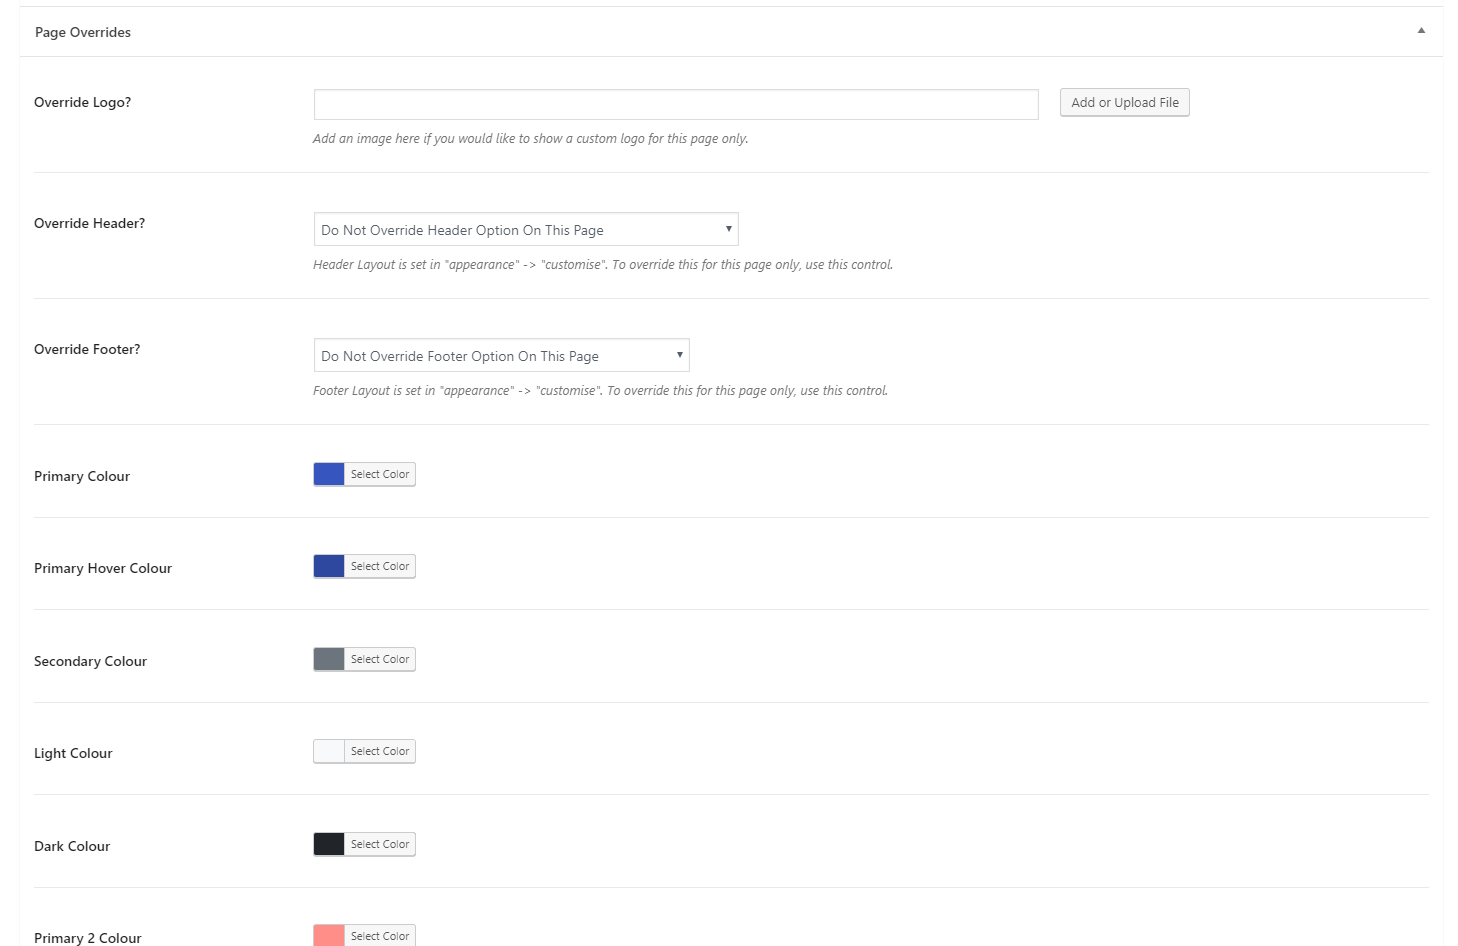
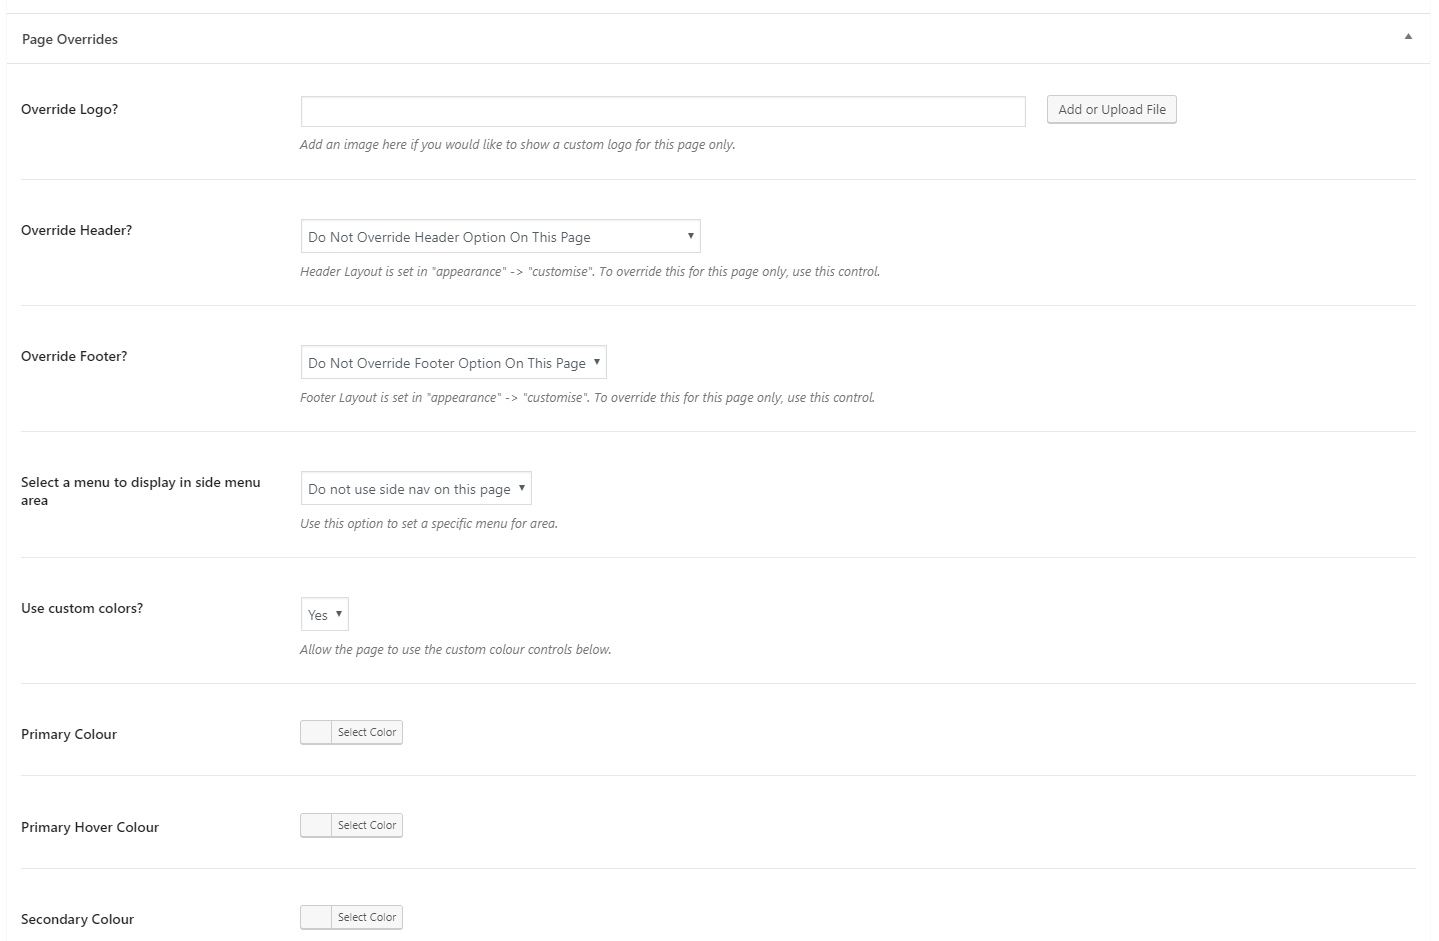
Further Jumpstart Docs

diff --git a/jumpstart-wordpress-theme/index.html b/jumpstart-wordpress-theme/index.html
@@ -271,9 +271,7 @@
             <a href="#PostsOverview">Posts Overview</a>
             <a href="#PortfolioOverview">Portfolio Overview</a>
             <a href="#TeamOverview">Team Overview</a>
-            <a href="#DocumentationOverview">Documentation Overview</a>   
-            <a href="#ClientsOverview">Clients Overview</a>     
-            <a href="#TestimonialOverview">Testimonials Overview</a>            
+            <a href="#DocumentationOverview">Documentation Overview</a>            
             <a href="#ContactForm7">Contact Form 7 Overview</a>
             <a href="#Translating">Translating Your Theme</a>            
             <a href="#Developers">Developing with Jumpstart</a>
@@ -355,23 +353,7 @@
         <br><br>
 
         <h2>Final Step</h2>
-        <p>Ok so you now have the pages and images all imported and ready, you now need to simply setup your homepage/blog and menu. To do this head to Settings > Reading to choose your homepage and posts page, and then head to Appearance > Menus to assign the demo menus.</p>   
-
-        <h4>Important Note</h4>
-        <p>If you have imported the demo data, you will notice the "new" badge displayed in the coworking menu item looks a little different to the demo (see below)</p>
-
-        <img src="images/badge.png">
-        <br><br>
-
-        <p>This is because typically the import process does not account for HTML within menu items - to remedy this you can edit the menu item and replace the text with the following HTML</p>
-
-        <pre>&#x3C;span class=&#x22;badge badge-primary ml-2&#x22;&#x3E;New&#x3C;/span&#x3E;</pre>
-        <br>
-        <p>Once done you will see the following result</p>
-
-        <img src="images/badge2.png">
-        <br><br>
-
+        <p>Ok so you now have the pages and images all imported and ready, you now need to simply setup your homepage/blog and menu. To do this head to Settings > Reading to choose your homepage and posts page, and then head to Appearance > Menus to assign the demo menus.</p>  
 
     </section>  
 
@@ -421,38 +403,31 @@
         <h3>8 - Header Settings</h3>
         <p>This area gives you control of the global header layout as well as the header CTA button. Here you can choose the overall header layout (which can also be overridden on a per-page basis) as well as set the button label and URL for the header's CTA button (you can also leave these fields blank to remove the button if you prefer)</p>
 
-        <h3>8 - Page View Settings</h3>
-        <p>Here you can enable or disable breadcumbs on regular pages (pages which do not use a page builder or such).</p>
+        <h3>9 - Blog Settings</h3>
+        <p>Here you choose a specific header style, layout and logo for your blog archive, as well as specify the title and subtitle used within your blog archive page and a field to specify your own Call To Action area content (shortcodes are allowed here).</p>
 
-        <h3>9 - Blog Single View Settings</h3>
-        <p>Here you can select a hero layout for single posts.</p>
+        <h3>10 - Portfolio Settings</h3>
+        <p>Here you choose a specific header style, layout and logo for your portfolio archive. You will also find an area to enter your own Call To Action area content (shortcodes are allowed here).</p>
 
-        <h3>10 - Blog Archive View Settings</h3>
-        <p>Here you choose a specific header style and logo for your blog archive, as well as specify the title and subtitle used within your blog archive page and a field to specify your own Call To Action area content (shortcodes are allowed here).</p>
-
-        <h3>11 - Portfolio Single View Settings</h3>
-        <p>Here you can select a hero layout for single portfolio items which can also be overriden on a per-page basis.</p>
-
-        <h3>12 - Portfolio Archive View Settings</h3>
-        <p>Here you specify the title and subtitle used in your portfolio archive.</p>
-
-        <h3>13 - Documentation Single View Settings</h3>
-        <p>Here you control elements shown within single Documentation posts.</p>
-
-        <h3>14 - Documentation Archive View Settings</h3>
+        <h3>11 - Documentation Settings</h3>
         <p>Here you specify the title and subtitle used in your documentation archive, as well choose a specific header style and logo for your documentation archive</p>
 
-        <h3>15 - Test Archive View Settings</h3>
-        <p>Here you specify the title and subtitle used in your testimonial archive, as well choose a specific header style and logo for your team archive.</p>
+        <h5>Adding Search Terms to the Documentation Search Bar</h5>
+        <p> To add you own pre-defined search terms, simply enter then into the textarea provided in a comma seperated format, like this <strong>Search Term One, Search Term Two, Search Term Three</strong> and so on.</p>
 
-        <h3>16 - 404 Settings</h3>
+        <h3>12 - Careers Settings</h3>
+        <p>Here you can enter your own submission form shortcode which appears at the bottom of a single job post.</p>
+
+        <h3>13 - Footer Settings</h3>
+        <p>This is where you can choose your desired footer layout as well as assign your social profile links, and customize your copyright text etc.</p>
+
+        <h3>14 - 404 Settings</h3>
         <p>Here you can specify a logo to use on your 404 pages</p>
 
-        <h3>17 - WP Login Settings</h3>
+        <h3>15 - WP Login Settings</h3>
         <p>Here you choose a custom background image and logo to use within your sites login page.</p>
 
-        <h3>18 - Footer Settings</h3>
-        <p>This is where you can choose your desired footer layout as well as assign your social profile links, and customize your copyright text etc.</p>
+        
 
     </section>
 
@@ -465,7 +440,7 @@
 
         <p>You are also able to override the logo used within the page here too, ideal if your looking for a neat contrasting look to the page or such.</p>
 
-        <p>Finally, with the page overrides your also able to customize the themes colours on a per-page basis, simpy use the colour pickers provided to give you page a unique look and feel from all the others. For details and an example of these overrides, please see the video below.</p>
+        <p>Finally, with the page overrides your also able to customize the themes colours on a per-page basis, simpy use the colour pickers provided to give you page a unique look and feel from all the others. For details and an example of these overrides, please see the video below. Be sure to "activate" the custom colours by setting the override "Use Custom Colours?" to yes.</p>
 
         <img src="images/overrides.png">
         <br><br>
@@ -490,18 +465,15 @@
         <h3>Creating Dropdown Menus</h3>
         <p>An important aspect to note when using our theme is the process of creating dropdowns/sub menus is the top level item (the menu item in the main menu area you click/hover to activate the sub-menu) needs to be a "Custom Link" menu item with a URL of just # - this allows the dropdown to work fully on both desktops and mobiles where 'hovering' is not available.</p>
 
-        <h3>Creating Badges</h3>
+        <h3>Adding a Side Menu to a Page</h3>
+        <p>Adding a side menu to a page can be done via the Page Overrides area. Simply select the menu you wish to display under the "Select a menu to display" option in the page overrides area and your all set</p>
 
-        <img src="images/badge.png">
-        <br><br>
+        <h3>Creating a Smooth Scrolling Side Menu</h3>
+        <p>As you can see in our demo, the pages which use the side menu also have a neat smooth scroll effect. To add such a menu item simply head to Appearance > Menus and edit/create a menu, then add a Custom URL menu item with a URL based on the ID of the area you want to link to such as <strong>#section-id-here</strong>.</p>
 
-        <p>If you wish to recreate the menu badge you see in the demo (image above) you will need to use some basic HTML markup within your menu's label. Here is an example you can use.</p>
+        <p>Once done, add the class "smooth-scroll" via the menu items "custom class" field and your all set</p>
 
-        <pre>&#x3C;span class=&#x22;badge badge-primary ml-2&#x22;&#x3E;New&#x3C;/span&#x3E;</pre>
-        <br><br>
-
-        <img src="images/nav1.png">
-        <br><br>
+        <img src="images/smooth1.png">
 
     </section> 
 
@@ -666,10 +638,17 @@
         <code>[jumpstart_icon icon_name="Apple icon"]</code> - Use this shortcode to output an icon from the themes provided icons.
         <br><br>
 
-        <code>[jumpstart_counter start="1" end="99999" counter_suffix="+"]</code> - This shortcode is used to creat a counter, you can specify a start and end point as well as an optional suffix (leave this out to have no suffix applied)
+        <code>[jumpstart_counter start="1" end="99999" counter_suffix="+"]</code> - This shortcode is used to create a counter, you can specify a start and end point as well as an optional suffix (leave this out to have no suffix applied)
         <br><br>
         
-        <code>[jumpstart_icon_button label="LABEL HERE" icon_name="ICON HERE" button_style="large"]</code> - Here you can create a neat icon button. You can specify the label/button text with the "label" parameter, as well as the icon etc. To control the buttons target you can use <code>target="_self"</code> etc</
+        <code>[jumpstart_icon_button label="LABEL HERE" icon_name="ICON HERE" button_style="large"]</code> - Here you can create a neat icon button. You can specify the label/button text with the "label" parameter, as well as the icon etc. To control the buttons target you can use <code>target="_self"</code> etc
+        <br><br>
+
+         <code>[jumpstart_countdown date="2020/10/05"]</code> - This shortcode is used to create a countdown, simply specify a date in the format supplied in the example.
+        <br><br>
+
+        <code>[typed_textn prefix="This theme is " heading_size="h1" text_colour="text-regular" text="Text One, Text Two, Text Three" underline="yes"]</code> - This shortcode is used to create a a cool typed text effect. Simply use the format above being sure to supply the typed text in a comma seperated format.
+        <br><br>
 
     </section>
 
@@ -688,6 +667,11 @@
         <h2>Featured Image</h2>
         <p>Upload a featured image - any size will work though we recommend <strong>1600 x 1000px</strong>. The images will be automatically applied throughout all the neccessary templates and loops so be sure to pick the best shot to reprasent your work.</p>
 
+        <h2>Giving a Category a Custom Colour</h2>
+        <p>As you can see in the demo, each category is able to use a custom colour which is shown in its "pill" - to give your post category a custom colour simply head to Posts > Categories and use the "colour" field provided - seen below.</p>
+
+        <img src="images/category-colour.png">
+
     </section>
 
     <section id="PortfolioOverview">
@@ -695,7 +679,7 @@
         <h1><a href="#PortfolioOverview">Portfolio Overview</a><small><a href="#html">Back to Top</a></small></h1>
 
         <br><br>
-        <iframe width="660" height="345" src="https://www.youtube.com/embed/nhSVDrvdFxU" frameborder="0" allow="autoplay; encrypted-media" allowfullscreen></iframe>
+        <iframe width="660" height="345" src="https://www.youtube.com/embed/rFlBxHtxbOo" frameborder="0" allow="autoplay; encrypted-media" allowfullscreen></iframe>
         <br><br>
 
         <h2>Creating a Portfolio Project</h2>
@@ -706,23 +690,8 @@
 
         <p>Creating a project is very similar to a regular WordPress post, in essense you have the regular content area (where you could write a description of your work/your process etc), and gallery area where you can upload the images of your awesome project, and a featured image area (the featured image, much like a regular WP post, used to represent your portfolio item within Portfolio feeds and archive pages/searches etc. We will now detail each area.</p>
 
-        <h2>Portfolio Item Layout Options</h2>
-        <p>When creating a portfolio item, you will notice an area below the main content editor where you will see a few extra fields like you see in the image below - we will now take a look at what these do.</p>
-
-        <img src="images/portfolio1.png">
-        <br><br>
-
-        <h2>Gallery Images</h2>
-        <p>Here you can add your portfolio images to your project. The way these are displayed is dependant on the layout you choose, which I will detail below.</p>
-
-        <h2>Project Layout</h2>
-        <p>Once you have added you prjects images, you will need to choose a layout - this dropdown allows you to do to. One thing to bare in mind is if you are using the "Case Study" layout, the gallery images are not used so you will need to add your images to the main content area much like a regular WP post - for an example of this please see the video above.</p>
-
         <h2>Portfolio Subtitle</h2>
         <p>This allows you to enter a subtitle for you project which is shown above the main title when using the "Case Study" layout only.</p>
-
-        <img src="images/portfoliosubtitle.png">
-        <br><br>
 
         <h2>Featured Image</h2>
         <p>Upload a featured image. The images will be automatically applied throughout all the neccessary templates and loops so be sure to pick the best shot to reprasent your work.</p>
@@ -734,7 +703,7 @@
         <h1><a href="#TeamOverview">Team Overview</a><small><a href="#html">Back to Top</a></small></h1>
 
         <br><br>
-        <iframe width="660" height="345" src="https://www.youtube.com/embed/KnWmQGOLVKI" frameborder="0" allow="autoplay; encrypted-media" allowfullscreen></iframe>
+        <iframe width="660" height="345" src="https://www.youtube.com/embed/w2x-AIAMk2Y" frameborder="0" allow="autoplay; encrypted-media" allowfullscreen></iframe>
         <br><br>
 
         <h2>Creating a Team post</h2>
@@ -761,7 +730,7 @@
         <h1><a href="#DocumentationOverview">Documentation Overview</a><small><a href="#html">Back to Top</a></small></h1>
 
         <br><br>
-        <iframe width="660" height="345" src="https://www.youtube.com/embed/sQCxZoXonO8" frameborder="0" allow="autoplay; encrypted-media" allowfullscreen></iframe>
+        <iframe width="660" height="345" src="https://www.youtube.com/embed/pF8Qkve1eVg" frameborder="0" allow="autoplay; encrypted-media" allowfullscreen></iframe>
         <br><br>
 
         <h2>Creating a Documentation Post</h2>
@@ -784,50 +753,6 @@
         <br><br>
 
         <p>For a list of available icons, see the <a href="http://jumpstart.tommusdemos.wpengine.com/elements/all-icons/" target="_blank">Icon Reference.</a></p>
-
-    </section>
-
-    <section id="ClientsOverview">
-
-        <h1><a href="#ClientsOverview">Clients Overview</a><small><a href="#html">Back to Top</a></small></h1>
-
-        <br><br>
-        <iframe width="660" height="345" src="https://www.youtube.com/embed/jrjcAEwV2pA" frameborder="0" allow="autoplay; encrypted-media" allowfullscreen></iframe>
-        <br><br>
-
-        <h2>Creating a Client Post</h2>
-        <p>To begin creating your client item, head to Client > Add New in your WordPress Dashboard.</p>
-
-        <img src="images/clientposts.gif">
-        <br><br>
-
-        <p>Creating a client item is very simple - just give your item a title (for internal reference only) as well as featured image (which should be your clients logo) and your all set.</p>
-
-    </section>
-
-    <section id="TestimonialOverview">
-
-        <h1><a href="#TestimonialOverview">Testimonial Overview</a><small><a href="#html">Back to Top</a></small></h1>
-
-        <br><br>
-        <iframe width="660" height="345" src="https://www.youtube.com/embed/S6XV-ylb4oE" frameborder="0" allow="autoplay; encrypted-media" allowfullscreen></iframe>
-        <br><br>
-
-        <h2>Creating a Testimonial Post</h2>
-        <p>To begin creating your client item, head to Testimonial > Add New in your WordPress Dashboard.</p>
-
-        <img src="images/testimonialposts.gif">
-        <br><br>
-
-        <p>Creating at testimonial item is very similar to a regular WordPress post, however you will see a few extra options below the main content editor as you can see below</p>
-
-        <img src="images/testimonials1.png">
-        <br><br>
-
-        <p>Here you can specify a logo which is shown in the testimonial archive page, as well as at the top of each single testimonial post. You can also add descriptions or other details via the "additional details" area. For an example of this please see the video above.</p>
-
-        <img src="images/testimonials2.png">
-        <br><br>
 
     </section>
 
